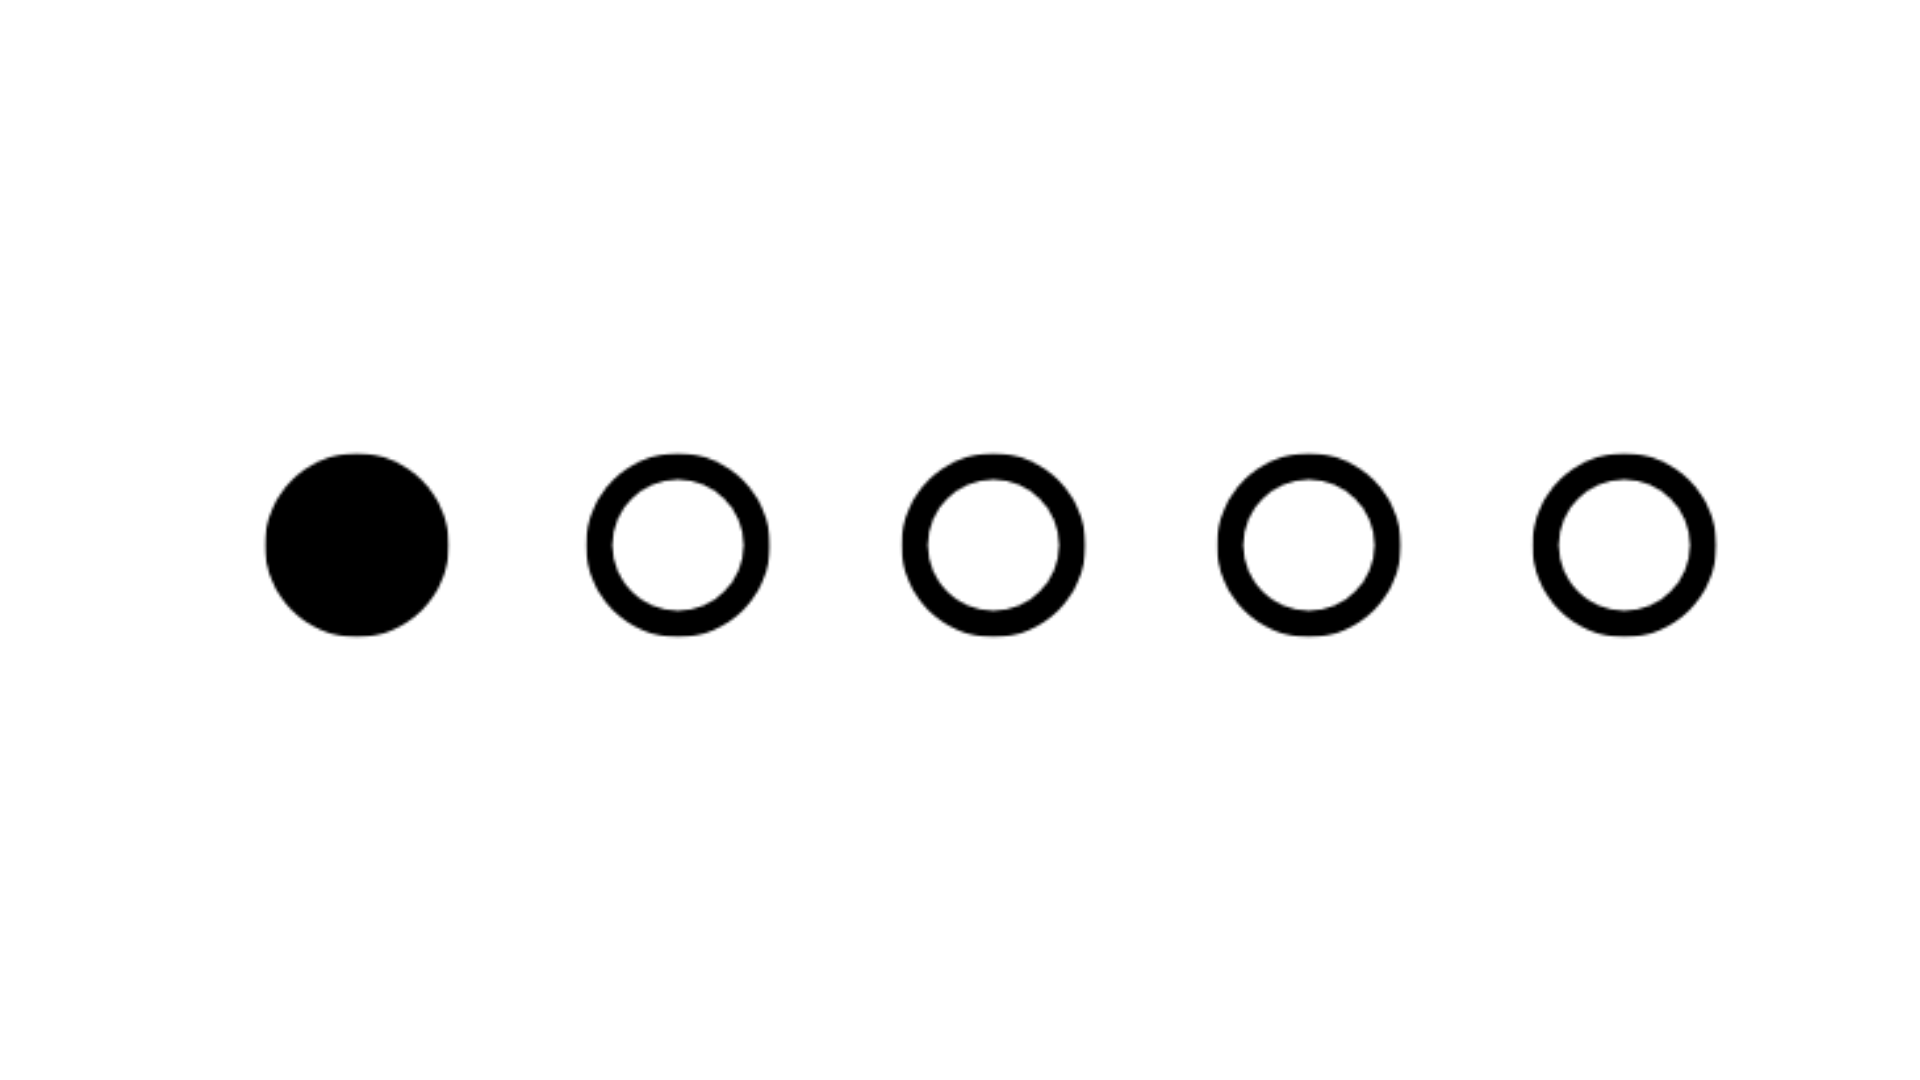
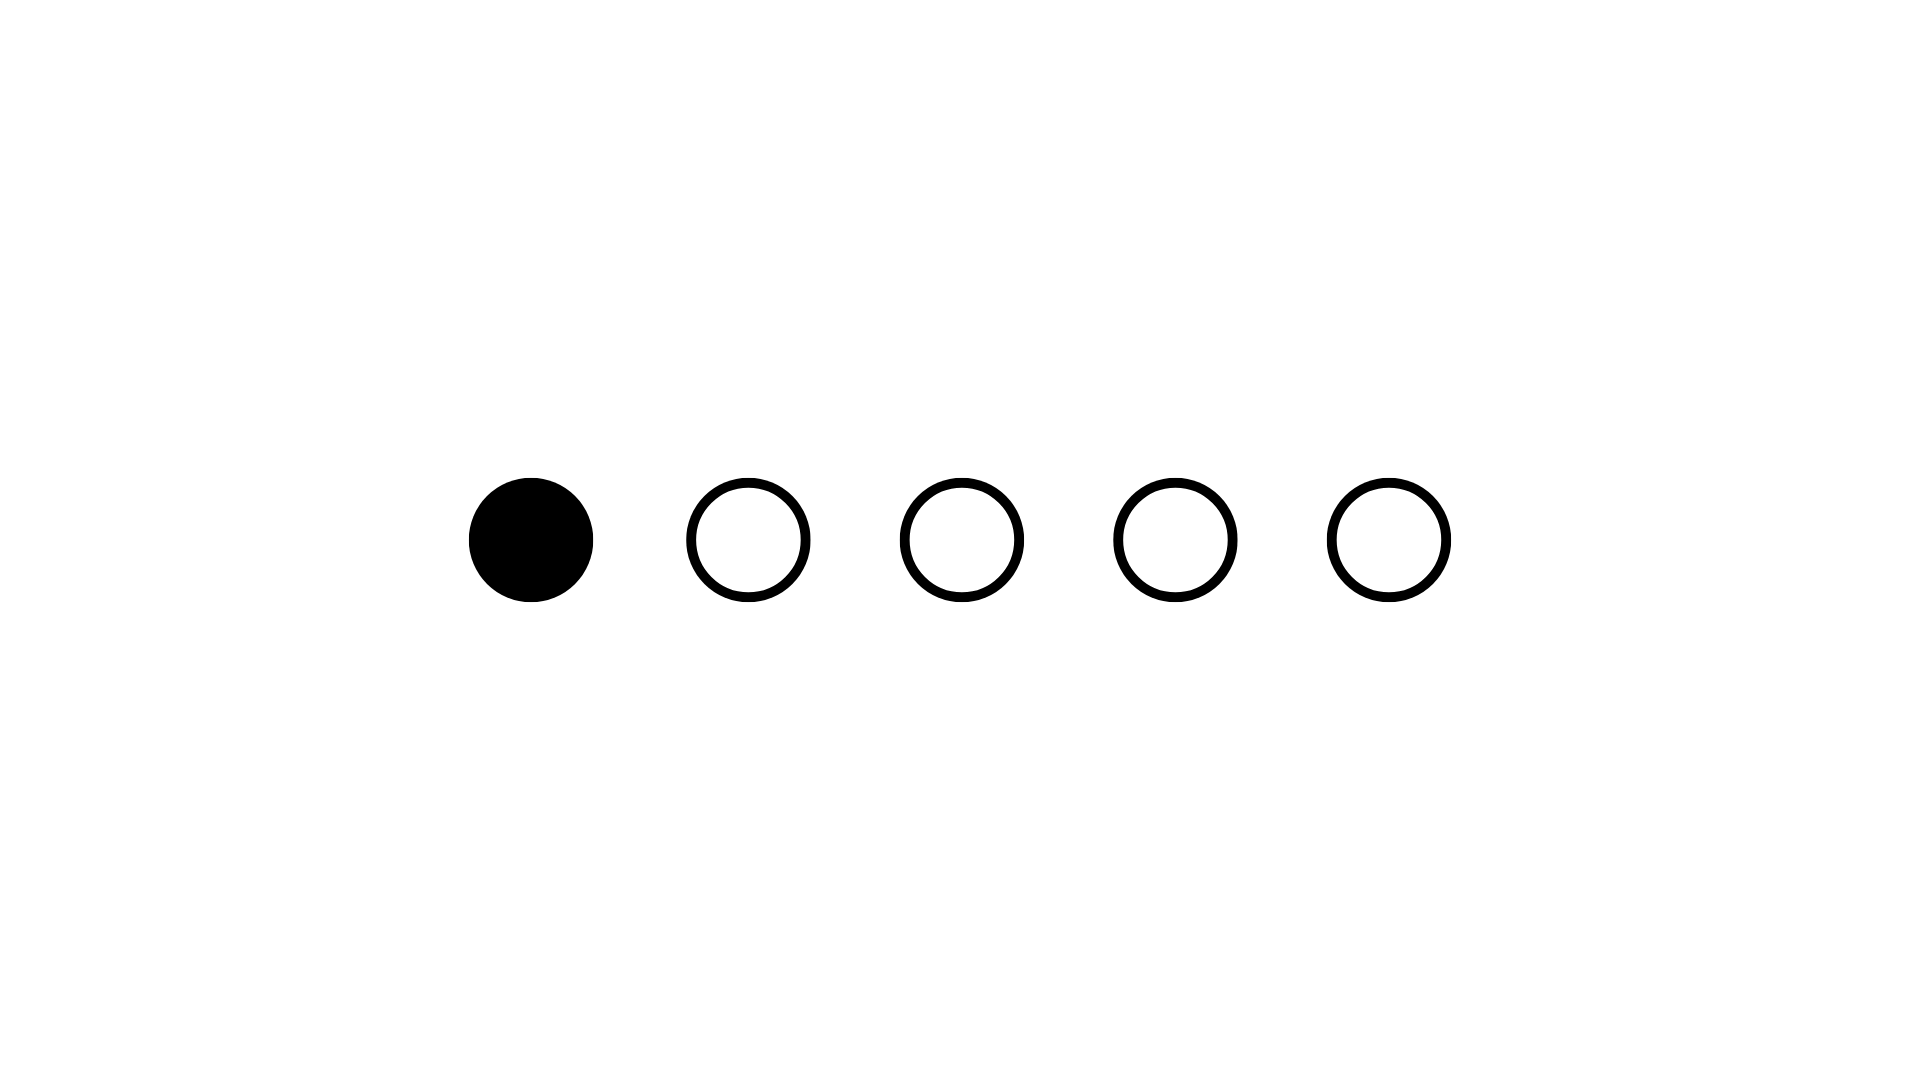
Commit Gabriel 09/05

Changed region(s): [[0.4688, 0.3972, 0.9062, 0.6111], [0.125, 0.3972, 0.4375, 0.6111]]

diff --git a/estrutura/telaCadastro3.html b/estrutura/telaCadastro3.html
@@ -1,0 +1,49 @@
+<!DOCTYPE html>
+<html lang="pt-BR">
+<head>
+    <meta charset="UTF-8">
+    <meta name="viewport" content="width=device-width, initial-scale=1.0">
+    <title>Cadastro EPTRAN</title>
+    <link rel="stylesheet" href="../visual/cadastro.css"/>
+</head>
+<body>
+    <header>
+        <img src="../visual/imagens/logotipo_Prefeitura.png" alt="Logo da Prefeitura de Joinville"/>
+    </header>
+    <div class="classe-do-cadastro">
+        <div>
+            <a href="./telaCadastro2.html"><button class="botao-voltar"><img class="seta-para-esquerda" src="../visual/imagens/seta-para-esquerda.png" alt="">Voltar</button></a>
+        </div>
+        <div class="faca-seu-cadastro">
+            <h2>Faça o seu cadastro</h2>
+            <p class="paragrafo-informacoes-cadastro">Informações Pessoais</p>
+        </div>
+        <form>
+            <div class="divisao-1-formulario">
+                <label for="genero-usuario">Estado:</label>
+                <select required name="genero-usuario" id="genero-usuario">
+                    <option selected disabled>Selecione uma opção</option>
+                    <option value="feminino">Feminino</option>
+                    <option value="masculino">Masculino</option>
+                    <option value="prefiro-nao-informar">Prefiro não informar</option>
+                </select>
+            </div>
+
+            <div class="divisao-2-formulario">
+                <label for="genero-usuario">Cidade:</label>
+                <select required name="genero-usuario" id="genero-usuario">
+                    <option selected disabled>Selecione uma opção</option>
+                    <option value="feminino">Feminino</option>
+                    <option value="masculino">Masculino</option>
+                    <option value="prefiro-nao-informar">Prefiro não informar</option>
+                </select>
+            </div>
+            
+            <div class="div-passos-cadastro">
+                <a href="" class="botao-seguinte"><button type="button" class="botao-seguinte">Seguinte</button></a>
+                <img class="passos-cadastro-img" src="../visual/imagens/pontinhos-passo-3.png" alt="Passo 1 do cadastro">
+            </div>
+        </form>
+    </div>
+</body>
+</html>

diff --git a/estrutura/telaCadastro2.html b/estrutura/telaCadastro2.html
@@ -1,0 +1,49 @@
+<!DOCTYPE html>
+<html lang="pt-BR">
+<head>
+    <meta charset="UTF-8">
+    <meta name="viewport" content="width=device-width, initial-scale=1.0">
+    <title>Cadastro EPTRAN</title>
+    <link rel="stylesheet" href="../visual/cadastro.css"/>
+</head>
+<body>
+    <header>
+        <img src="../visual/imagens/logotipo_Prefeitura.png" alt="Logo da Prefeitura de Joinville"/>
+    </header>
+    <div class="classe-do-cadastro">
+        <div>
+            <a href="./telaCadastro1.html"><button class="botao-voltar"><img class="seta-para-esquerda" src="../visual/imagens/seta-para-esquerda.png" alt="">Voltar</button></a>
+        </div>
+        <div class="faca-seu-cadastro">
+            <h2>Faça o seu cadastro</h2>
+            <p class="paragrafo-informacoes-cadastro">Informações Pessoais</p>
+        </div>
+        <form>
+            <div class="divisao-1-formulario">
+                <label for="nome-completo">Nome completo:</label>
+                <input type="text" name="nome-completo" id="nome-completo">
+            </div>
+
+            <div class="divisao-1-formulario">
+                <label for="idade-usuario">Idade:</label>
+                <input type="number" name="idade-usuario" id="idade-usuario">
+            </div>
+
+            <div class="divisao-2-formulario">
+                <label for="genero-usuario">Gênero:</label>
+                <select required name="genero-usuario" id="genero-usuario">
+                    <option selected disabled>Selecione uma opção</option>
+                    <option value="feminino">Feminino</option>
+                    <option value="masculino">Masculino</option>
+                    <option value="prefiro-nao-informar">Prefiro não informar</option>
+                </select>
+            </div>
+
+            <a href="./telaCadastro3.html" class="botao-seguinte"><button type="button" class="botao-seguinte">Seguinte</button></a>
+            <div class="div-passos-cadastro">
+                <img class="passos-cadastro-img" src="../visual/imagens/pontinhos-passo-2.png" alt="Passo 1 do cadastro">
+            </div>
+        </form>
+    </div>
+</body>
+</html>

diff --git a/visual/cadastro.css b/visual/cadastro.css
@@ -6,12 +6,14 @@
     font-family: "Teachers", sans-serif;
 }
 
+body {
+    height: 100vh
+}
+
 .classe-do-cadastro {
-    position: absolute;
-    top: 360px;
-    left: 50%;
-    transform: translate(-50%,-50%);
-    width: 70%;
+    display: block;
+    margin-inline: 10vw;
+    margin-top: 30px;
 }
 
 header {
@@ -43,6 +45,10 @@ header > img {
     margin-bottom: 50px;
 }
 
+.paragrafo-informacoes-cadastro {
+    font-size: larger;
+}
+
 form {
     display: flex;
     flex-direction: column;
@@ -50,7 +56,7 @@ form {
     font-size: larger;
 }
 
-input {
+input, select {
     border-radius: 50px;
     border-width: 1px;
     width: 100%;
@@ -67,24 +73,26 @@ input {
 .divisao-2-formulario {
     display: grid;
     gap: 10px;
-    margin-bottom: 20px;
+    margin-bottom: 35px;
 }
 
 .botao-seguinte {
+    text-align: center;
     background-color: #00BF63;
     border: 0;
     border-radius: 50px;
-    padding-block: 12px;
+    padding-block: 7px;
     font-size: 20px;
-    font-weight: 700;
+    font-weight: 600;
 }
 
 .div-passos-cadastro {
-    text-align: center;
+    display: block;
+    margin: auto;
 }
 
 .passos-cadastro-img {
-    width: 120px;
-    height: 70px;
+    width: 13rem;
+    height: 7.5rem;
 }
 

diff --git a/estrutura/telaCadastro1.html b/estrutura/telaCadastro1.html
@@ -19,7 +19,7 @@
         </div>
         <form>
             <div class="divisao-1-formulario">
-                <label for="nome-de-usuario">Nome de Usuário:</label>
+                <label for="nome-de-usuario">Nome de usuário:</label>
                 <input type="text" name="nome-de-usuario" id="nome-de-usuario">
             </div>
 
@@ -28,7 +28,7 @@
                 <input type="email" name="email-usuario" id="email-usuario">
             </div>
 
-            <button type="button" class="botao-seguinte">Seguinte</button>
+            <a href="./telaCadastro2.html" class="botao-seguinte"><button type="button" class="botao-seguinte">Seguinte</button></a>
             <div class="div-passos-cadastro">
                 <img class="passos-cadastro-img" src="../visual/imagens/pontinhos-passo-1.png" alt="Passo 1 do cadastro">
             </div>
